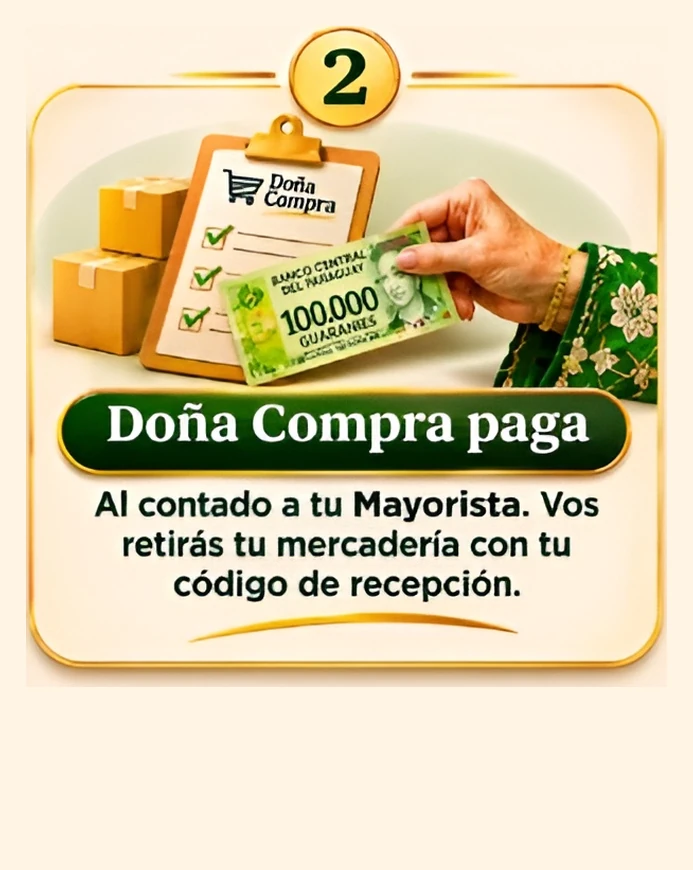
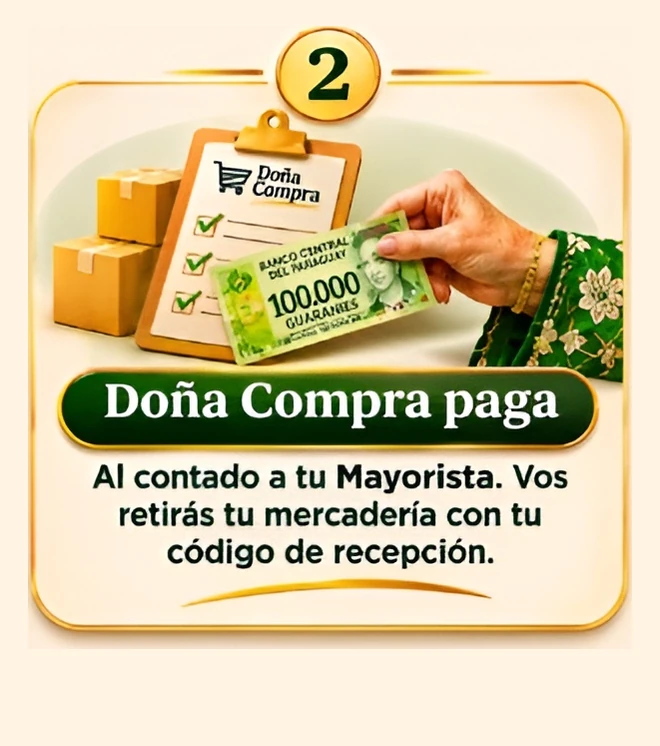
Empareja las tarjetas por area, no por ancho
Igualar el ancho del marco no alcanzaba: el dibujo de la primera es
vertical (su marco mide 0,84 de ancho por alto) y los de las otras dos
son casi cuadrados (1,04). Con el mismo ancho, la primera quedaba un
cuarto mas alta y se seguia viendo mas grande, que es lo que se noto.

Ahora se iguala el AREA del marco, que es como el ojo juzga el tamano
cuando las formas son distintas: la primera queda un poco mas angosta y
un poco mas alta, las otras dos un poco mas anchas y mas bajas, y las
tres pesan lo mismo en la pagina. Siguen alineadas arriba, para que las
chapas con el numero queden a la misma altura.

Archivos de 660x746 las tres. Medido en el navegador: 350x395 en
computadora y 339x384 en un telefono, las tres, arrancando en el mismo
punto.

Esto es lo mas parejo que se consigue sin rehacer los carteles: las
formas siguen siendo distintas porque los dibujos lo son. Igualarlas
del todo es el pedido 1.1 de Antonio, que pide los tres con el mismo
formato.

diff --git a/Doña Compra.dc.html b/Doña Compra.dc.html
@@ -666,17 +666,21 @@
 
     <section style="background:#F5F2EB;border-top:1px solid rgba(22,57,35,0.12)">
       <div style="max-width:1280px;margin:0 auto;padding:clamp(44px,7vw,90px) clamp(18px,4vw,40px)">
-        <!-- Las tres son archivos del mismo tamano (698x858) y con el
-             marco dorado del mismo ancho, emparejados a mano: cada original
-             traia su marco con una proporcion distinta (0,81 la primera y
-             1,02 las otras dos) y margenes de crema distintos, asi que
-             puestas en una grilla una se veia mas grande. Por eso aca no hay
-             aspect-ratio ni object-fit: ya no hace falta forzar nada. -->
+        <!-- Las tres son archivos del mismo tamano (660x746), emparejados a
+             mano con scratchpad/pasos_v2.py. Cada original traia su marco
+             dorado con una proporcion distinta: 0,84 la primera, que es
+             vertical, y 1,04 las otras dos, casi cuadradas. Igualar el ancho
+             dejaba a la primera un cuarto mas alta y se seguia viendo mas
+             grande, asi que se igualo el AREA del marco: la primera queda un
+             poco mas angosta y un poco mas alta, y las tres pesan lo mismo.
+             Van alineadas arriba, para que las tres chapas con el numero
+             queden a la misma altura. Por eso aca no hay aspect-ratio ni
+             object-fit: no hace falta forzar nada desde el CSS. -->
         <h2 style="font-family:Montserrat,sans-serif;font-weight:600;font-size:clamp(26px,3.6vw,46px);line-height:1.06;color:#163923;margin:0 0 26px">Tus tres pasos</h2>
         <ol style="list-style:none;margin:0;padding:0;display:grid;grid-template-columns:repeat(auto-fit,minmax(min(280px,100%),1fr));gap:18px;align-items:start">
-          <li><img src="assets/pasos/paso-1-vos-elegis.webp?v=3" width="693" height="870" loading="lazy" decoding="async" alt="Paso 1. Vos eleg&iacute;s: los productos y tu mayorista que ya conoc&eacute;s. Una bolsa de Do&ntilde;a Compra junto a un carrito cargado de cajas." style="width:100%;height:auto;display:block;border-radius:10px" /></li>
-          <li><img src="assets/pasos/paso-2-dona-compra-paga.webp?v=3" width="693" height="870" loading="lazy" decoding="async" alt="Paso 2. Do&ntilde;a Compra paga al contado a tu mayorista. Vos retir&aacute;s tu mercader&iacute;a con tu c&oacute;digo de recepci&oacute;n." style="width:100%;height:auto;display:block;border-radius:10px" /></li>
-          <li><img src="assets/pasos/paso-3-pagas-en-30-dias.webp?v=3" width="693" height="870" loading="lazy" decoding="async" alt="Paso 3. Pag&aacute;s en 30 d&iacute;as como m&aacute;ximo, desde el retiro, por transferencia, alias, Mango o Tigo Money." style="width:100%;height:auto;display:block;border-radius:10px" /></li>
+          <li><img src="assets/pasos/paso-1-vos-elegis.webp?v=4" width="660" height="746" loading="lazy" decoding="async" alt="Paso 1. Vos eleg&iacute;s: los productos y tu mayorista que ya conoc&eacute;s. Una bolsa de Do&ntilde;a Compra junto a un carrito cargado de cajas." style="width:100%;height:auto;display:block;border-radius:10px" /></li>
+          <li><img src="assets/pasos/paso-2-dona-compra-paga.webp?v=4" width="660" height="746" loading="lazy" decoding="async" alt="Paso 2. Do&ntilde;a Compra paga al contado a tu mayorista. Vos retir&aacute;s tu mercader&iacute;a con tu c&oacute;digo de recepci&oacute;n." style="width:100%;height:auto;display:block;border-radius:10px" /></li>
+          <li><img src="assets/pasos/paso-3-pagas-en-30-dias.webp?v=4" width="660" height="746" loading="lazy" decoding="async" alt="Paso 3. Pag&aacute;s en 30 d&iacute;as como m&aacute;ximo, desde el retiro, por transferencia, alias, Mango o Tigo Money." style="width:100%;height:auto;display:block;border-radius:10px" /></li>
         </ol>
       </div>
     </section>

diff --git a/index.html b/index.html
@@ -666,17 +666,21 @@
 
     <section style="background:#F5F2EB;border-top:1px solid rgba(22,57,35,0.12)">
       <div style="max-width:1280px;margin:0 auto;padding:clamp(44px,7vw,90px) clamp(18px,4vw,40px)">
-        <!-- Las tres son archivos del mismo tamano (698x858) y con el
-             marco dorado del mismo ancho, emparejados a mano: cada original
-             traia su marco con una proporcion distinta (0,81 la primera y
-             1,02 las otras dos) y margenes de crema distintos, asi que
-             puestas en una grilla una se veia mas grande. Por eso aca no hay
-             aspect-ratio ni object-fit: ya no hace falta forzar nada. -->
+        <!-- Las tres son archivos del mismo tamano (660x746), emparejados a
+             mano con scratchpad/pasos_v2.py. Cada original traia su marco
+             dorado con una proporcion distinta: 0,84 la primera, que es
+             vertical, y 1,04 las otras dos, casi cuadradas. Igualar el ancho
+             dejaba a la primera un cuarto mas alta y se seguia viendo mas
+             grande, asi que se igualo el AREA del marco: la primera queda un
+             poco mas angosta y un poco mas alta, y las tres pesan lo mismo.
+             Van alineadas arriba, para que las tres chapas con el numero
+             queden a la misma altura. Por eso aca no hay aspect-ratio ni
+             object-fit: no hace falta forzar nada desde el CSS. -->
         <h2 style="font-family:Montserrat,sans-serif;font-weight:600;font-size:clamp(26px,3.6vw,46px);line-height:1.06;color:#163923;margin:0 0 26px">Tus tres pasos</h2>
         <ol style="list-style:none;margin:0;padding:0;display:grid;grid-template-columns:repeat(auto-fit,minmax(min(280px,100%),1fr));gap:18px;align-items:start">
-          <li><img src="assets/pasos/paso-1-vos-elegis.webp?v=3" width="693" height="870" loading="lazy" decoding="async" alt="Paso 1. Vos eleg&iacute;s: los productos y tu mayorista que ya conoc&eacute;s. Una bolsa de Do&ntilde;a Compra junto a un carrito cargado de cajas." style="width:100%;height:auto;display:block;border-radius:10px" /></li>
-          <li><img src="assets/pasos/paso-2-dona-compra-paga.webp?v=3" width="693" height="870" loading="lazy" decoding="async" alt="Paso 2. Do&ntilde;a Compra paga al contado a tu mayorista. Vos retir&aacute;s tu mercader&iacute;a con tu c&oacute;digo de recepci&oacute;n." style="width:100%;height:auto;display:block;border-radius:10px" /></li>
-          <li><img src="assets/pasos/paso-3-pagas-en-30-dias.webp?v=3" width="693" height="870" loading="lazy" decoding="async" alt="Paso 3. Pag&aacute;s en 30 d&iacute;as como m&aacute;ximo, desde el retiro, por transferencia, alias, Mango o Tigo Money." style="width:100%;height:auto;display:block;border-radius:10px" /></li>
+          <li><img src="assets/pasos/paso-1-vos-elegis.webp?v=4" width="660" height="746" loading="lazy" decoding="async" alt="Paso 1. Vos eleg&iacute;s: los productos y tu mayorista que ya conoc&eacute;s. Una bolsa de Do&ntilde;a Compra junto a un carrito cargado de cajas." style="width:100%;height:auto;display:block;border-radius:10px" /></li>
+          <li><img src="assets/pasos/paso-2-dona-compra-paga.webp?v=4" width="660" height="746" loading="lazy" decoding="async" alt="Paso 2. Do&ntilde;a Compra paga al contado a tu mayorista. Vos retir&aacute;s tu mercader&iacute;a con tu c&oacute;digo de recepci&oacute;n." style="width:100%;height:auto;display:block;border-radius:10px" /></li>
+          <li><img src="assets/pasos/paso-3-pagas-en-30-dias.webp?v=4" width="660" height="746" loading="lazy" decoding="async" alt="Paso 3. Pag&aacute;s en 30 d&iacute;as como m&aacute;ximo, desde el retiro, por transferencia, alias, Mango o Tigo Money." style="width:100%;height:auto;display:block;border-radius:10px" /></li>
         </ol>
       </div>
     </section>
